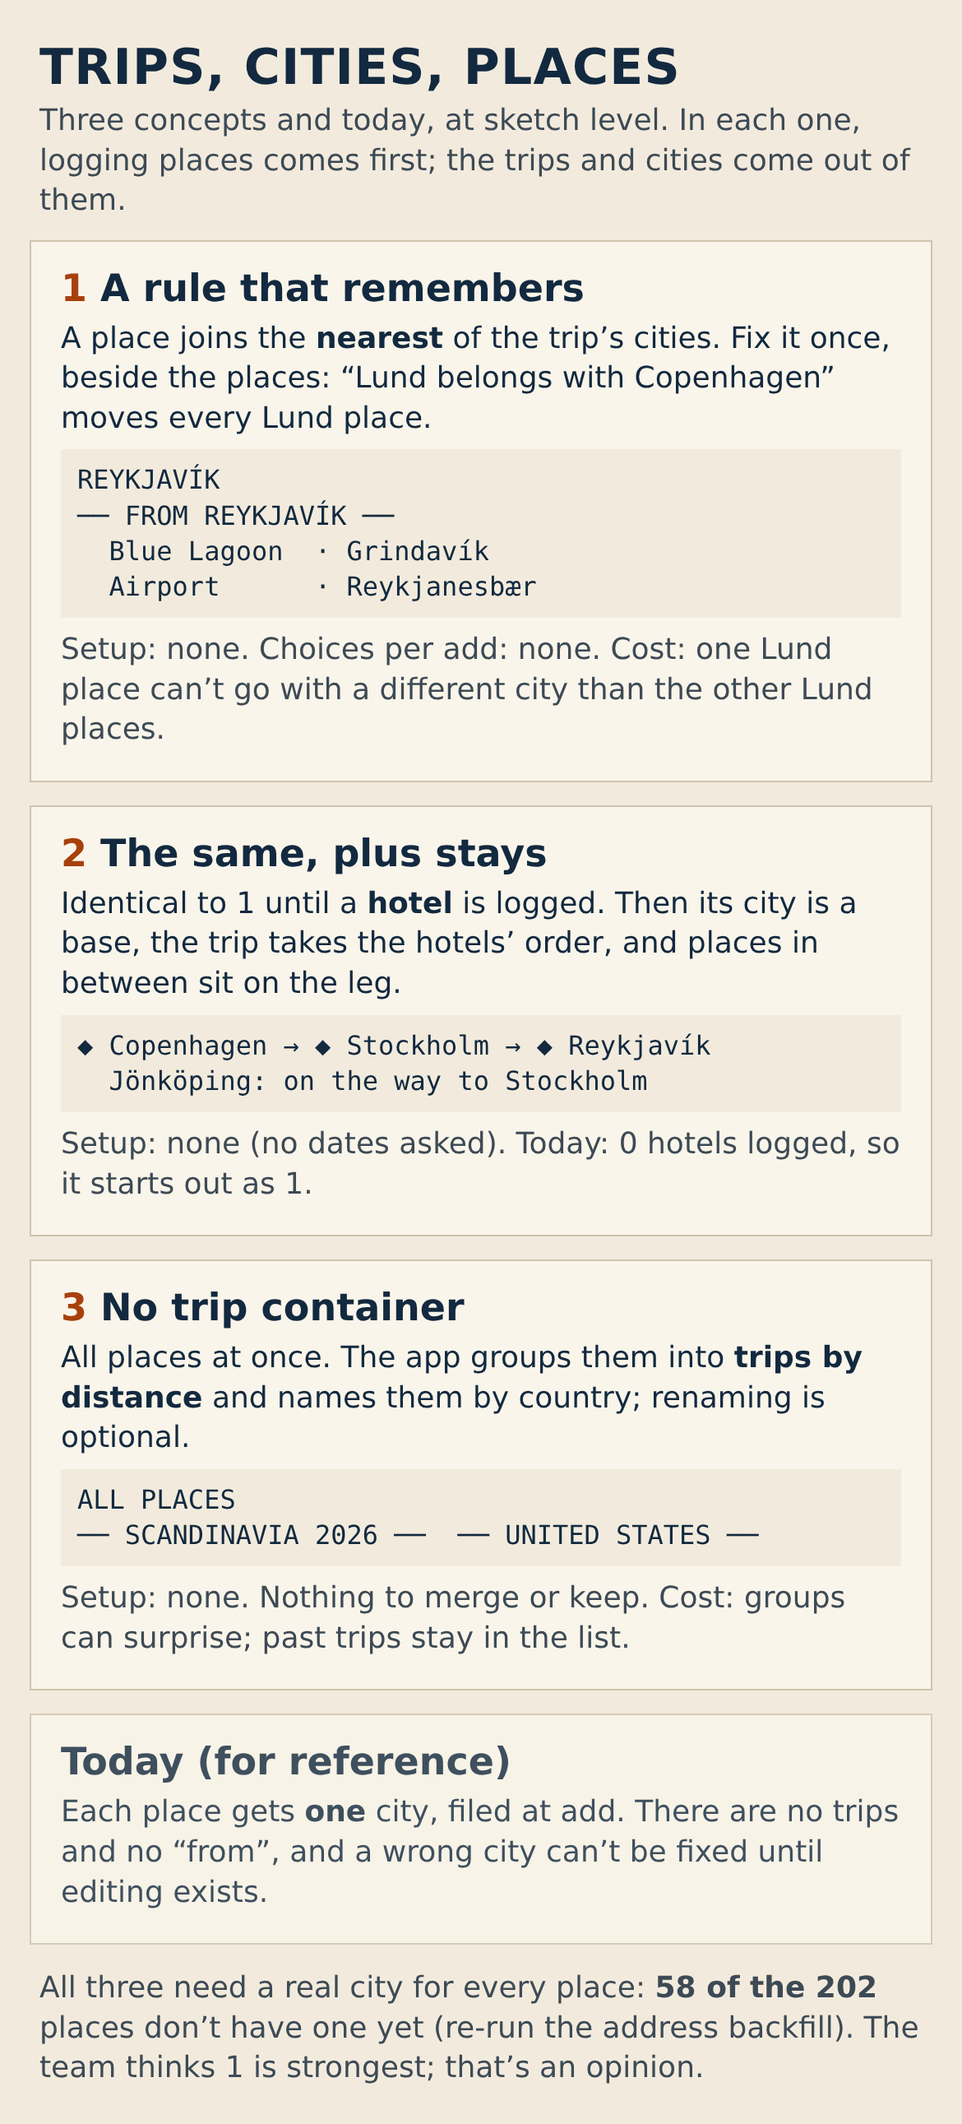
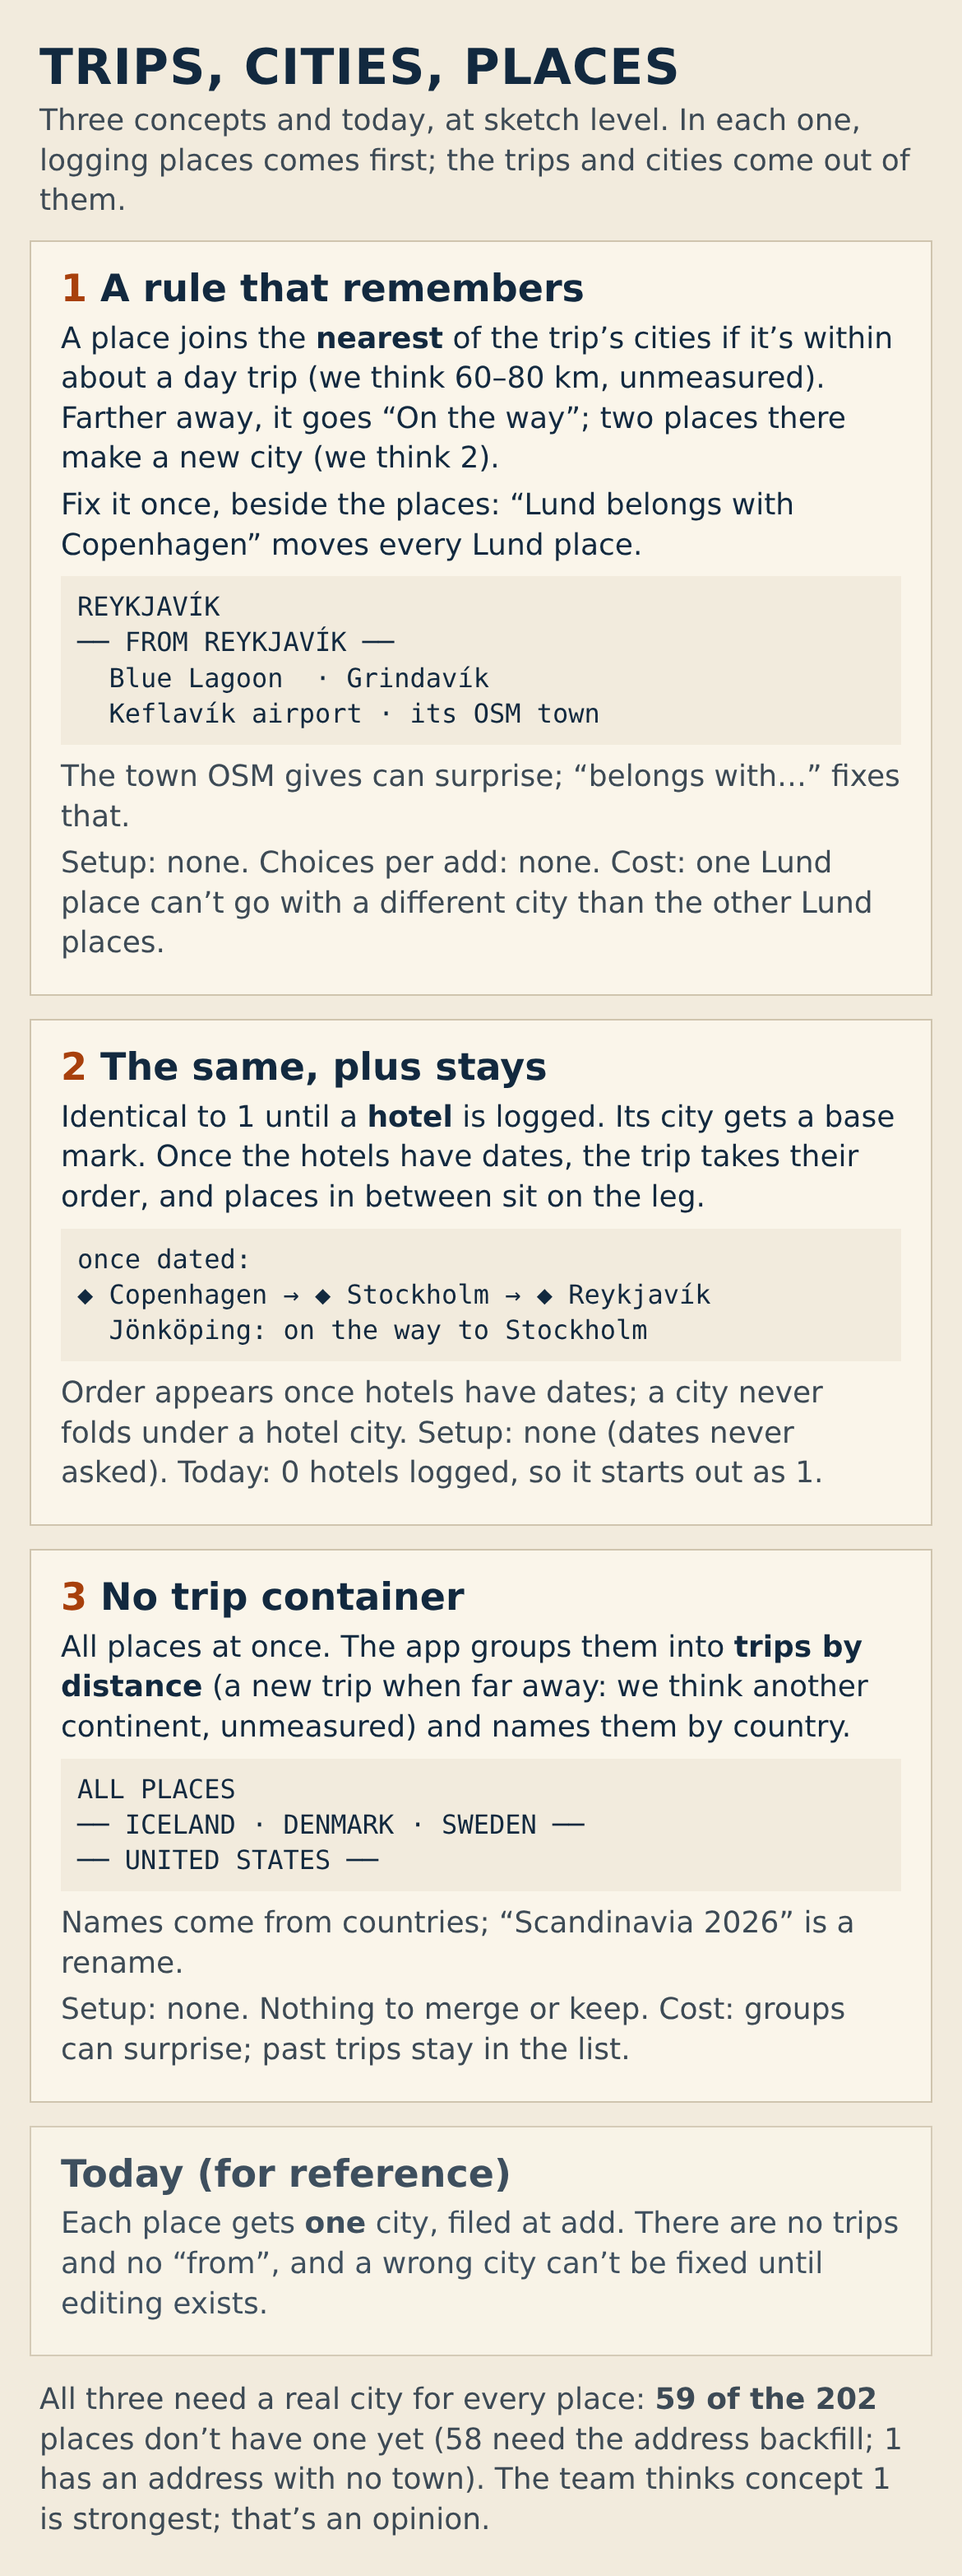
trip-model: Turn 9 overview + concept 2 fixes
Claude-Session: https://claude.ai/code/session_01KJurQQYHfCNMLJBzKaXeDY

Changed region(s): [[0.0308, 0.0, 0.9538, 0.9915]]

diff --git a/design/trip-location-model/concepts/2-rule-plus-stays.md b/design/trip-location-model/concepts/2-rule-plus-stays.md
@@ -4,6 +4,11 @@ Sketch level, model not UI. **Everything in concept 1 holds.** This file
 covers only what the stays layer adds. **(We think)** marks the team's
 taste.
 
+Revised after the director's Turn 8:
+- **a base only adds a mark**; a figure never folds under a base;
+- **the stays' order shows only once every base has a date**; until
+  then, concept 1's order.
+
 ## The model in one picture
 
 ```
@@ -12,31 +17,36 @@ taste.
  Log a hotel (an ordinary place, category Hotel)
    │
    ▼
- its figure becomes a BASE ◆      the order is the order the hotels were added
-                                  (no dates asked; a date on a hotel, if ever given, reorders)
+ its figure gets a BASE MARK ◆        nothing else moves: every figure stays a figure
+   │                                  (Malmö with no hotel is still "MALMÖ", top level)
+   │
+   └── every base's hotel has a date? (dates are never asked; one you give is used)
+          │ no  ──▶ sections keep concept 1's order; in-between places stay "On the way"
+          │ yes ──▶ sections take the stays' order, and in-between places sit on LEGS
 
- TRIP  "Scandinavia 2026"
+ TRIP "Scandinavia 2026", all base hotels dated:
    ◆ Copenhagen ──leg──▶ ◆ Stockholm ──leg──▶ ◆ Reykjavík
-        │                    │                    │
-     From / In            From / In            From / In
-   Malmö (no hotel) = a figure under Copenhagen's base: "Malmö · from Copenhagen"
-   Jönköping = on the Copenhagen ↔ Stockholm LEG (it replaces "On the way")
+     MALMÖ (no hotel): its own section, placed after the base nearest it
+     Jönköping (no figure) ──▶ on the Copenhagen ↔ Stockholm leg
 ```
 
-**Stored:** nothing new. Bases, order and legs are **derived** from
-Hotel places and their order.
+**Stored:** nothing new, beyond a date on a hotel if one is given. Base
+marks, order and legs are **derived** from Hotel places and their dates.
+
+**Legs hold only places with no figure** (what concept 1 calls "On the
+way"). A place that has a figure is never moved onto a leg.
 
 ## What you see
 
 ```
- TRIP LENS (with stays)                       TRIP LENS (no stays yet) = concept 1
+ TRIP LENS, every base dated                  TRIP LENS, no dates (or no hotels) = concept 1
 ┌──────────────────────────────────┐        ┌──────────────────────────────┐
 │ ▾ SCANDINAVIA 2026 (96)          │        │ ▾ SCANDINAVIA 2026 (96)      │
-│ ◆ COPENHAGEN (31)                │        │ ── COPENHAGEN (31) ───────   │
-│     Malmö · from Copenhagen (12) │        │ ── MALMÖ (12) ────────────   │
-│ ┄ on the way to Stockholm (1) ┄  │        │ ── STOCKHOLM (20) ────────   │
-│ ◆ STOCKHOLM (20)                 │        │ ── REYKJAVÍK (23) ────────   │
-│ ◆ REYKJAVÍK (23)                 │        │ ── ON THE WAY (1) ────────   │
+│ ◆ COPENHAGEN (31)    12–15 Sep   │        │ ◆ COPENHAGEN (31)            │
+│ ── MALMÖ (12) ─────────────────  │        │ ── MALMÖ (12) ────────────   │
+│ ┄ on the way to Stockholm (1) ┄  │        │ ◆ STOCKHOLM (20)             │
+│ ◆ STOCKHOLM (20)     15–18 Sep   │        │ ◆ REYKJAVÍK (23)             │
+│ ◆ REYKJAVÍK (23)     18–22 Sep   │        │ ── ON THE WAY (1) ────────   │
 └──────────────────────────────────┘        └──────────────────────────────┘
  the city lens is concept 1's, with the base's hotel(s) heading its list
 ```
@@ -44,9 +54,9 @@ Hotel places and their order.
 ## P: places-first
 
 **PASS, conditionally.**
-- It passes because stays are never asked for, and the layer only reacts
-  to a hotel you chose to log.
-- It would FAIL if it ever prompted "add your hotel" or asked for dates.
+- It passes because stays and dates are never asked for; the layer only
+  reacts to what was logged.
+- It would FAIL if it ever prompted "add a hotel" or asked for dates.
 
 ## Creation moments
 
@@ -54,42 +64,44 @@ C1-C6, C8 and C9 are as in concept 1 (all PASS). What differs:
 
 | # | Moment | What happens | Check |
 |---|---|---|---|
-| C3/C4 | A new real city near a base | As in concept 1. Near a **base** it reads "from Copenhagen" | PASS |
-| C7 | A hotel (the first in Copenhagen) | Copenhagen gets ◆. The trip lens takes the stays' order. Places between two bases sit on that leg. No dates asked | PASS |
-| C7b | A second hotel in another city | That city becomes a base too. Order = the order added (Copenhagen first). A non-base figure (Malmö) folds under its nearest base | PASS |
+| C7 | A hotel (the first, in Copenhagen) | Copenhagen gets ◆. **Nothing else changes:** no reorder, no folding, no legs. No dates asked | PASS |
+| C7b | A second hotel, in another city | That city gets ◆ too. **The order is still concept 1's**, because not every base has a date. Malmö, with no hotel, stays its own top-level city | PASS |
+| C7c | Every base's hotel has a date (given, never asked) | The sections take the stays' order. Places with no figure (On the way) move onto the leg between the two bases they sit between | PASS |
 
-**The change you'd notice, said plainly:** with one hotel logged, Malmö
-stops being a city at the top level of the trip lens and becomes "Malmö ·
-from Copenhagen". That's the layer's point, and also its surprise.
-**(We think)** that's right only if hotels are the trip's frame (owner
-question 3).
+**What's gone, from the first sketch:**
+- One hotel no longer turns Malmö into "Malmö · from Copenhagen".
+  Logging a place never restructures what the owner sees.
+- The order no longer follows the order hotels were added, so the
+  Reykjavík hotel logged first can't make Reykjavík lead a trip that
+  ends there.
 
 ## Test cases
 
 | Case | Result | Check |
 |---|---|---|
-| T1 Øresund (Tårnby) | As in concept 1: from Copenhagen. If Malmö is also a base and is next in order, it's still Copenhagen by memory (the leg applies only to places with no figure) | PASS |
-| T2 Keflavík | As in concept 1: under Reykjavík. With a Reykjavík hotel it's at the edge of the Reykjavík base | PASS |
-| T2 Kastrup for both cities | As in concept 1 (Tårnby in both figures). With bases, it shows at the start and end of the Copenhagen stay | PASS |
-| T3 Jönköping | With Copenhagen and Stockholm bases next to each other in order → **on the Copenhagen ↔ Stockholm leg**. With no stays → On the way (concept 1) | PASS |
+| T1 Øresund (Tårnby) | As in concept 1: from Copenhagen, by the memory. Bases don't change a figure | PASS |
+| T2 Keflavík | As in concept 1: under Reykjavík. With a Reykjavík hotel, it sits under the ◆ Reykjavík section | PASS |
+| T2 Kastrup for both cities | As in concept 1 (Tårnby in both figures, if the owner puts it there) | PASS |
+| T3 Jönköping | **Every base dated**, with Copenhagen and Stockholm next to each other in order → on the Copenhagen ↔ Stockholm leg. **Otherwise** → On the way (concept 1) | PASS |
 
 ## Jobs (only where they differ from concept 1)
 
-- **2:** sections are in trip order.
+- **2:** the sections are in trip order once every base is dated.
 - **7:** the same "belongs with…".
 - **8:** a plan defaults to a day from a base **(we think)**.
-- **9:** legs.
-- **14:** PASS. It's identical to concept 1 without a hotel; base,
-  order and legs appear with one, and no dates are asked.
+- **9:** legs, once dated; On the way before that.
+- **14:** PASS. It's identical to concept 1 without a hotel. A hotel
+  adds the base mark; dates (never asked) add order and legs.
 
 ## Prerequisite
 
-As in concept 1: **58 places without `address_details`**. Also: **0
-Hotel-category places today**, so on day one this concept *is* concept
-1.
+As in concept 1: **59 of 202 places without a real town** (58 with no
+`address_details`, 1 with no town in them). Also: **0 Hotel-category
+places today**, so on day one this concept *is* concept 1.
 
 ## Open (owner questions)
 
 - 3: are hotels and airports places to visit, or the trip's frame?
-- 4: should order or dates be used?
+- 4: should order or dates be used? This concept uses order only once
+  every base has a date.
 - Plus concept 1's questions.

diff --git a/design/trip-location-model/jam.md b/design/trip-location-model/jam.md
@@ -1272,3 +1272,33 @@ Q4 (order/dates) now carries concept 2's gap-2 fix.
 NEXT: product designer (visual focus) — overview changes 1-7 and
 concept 2's two gap fixes in its file. Systems confirms the 59 count.
 Then I check and re-score concept 2.
+
+## Turn 9 -- product designer (visual focus): Turn 8's changes made
+
+- **Overview** (`concepts/overview-3x.png`, re-rendered at 1170x3130 and
+  checked at phone size):
+  1. Card 1 gives the reach: "if it's within about a day trip (we think
+     60-80 km, unmeasured); farther goes 'On the way'".
+  2. Card 1 gives the threshold: "two places there make a new city (we
+     think 2)".
+  3. Card 2's cost line: "Order appears once hotels have dates; a city
+     never folds under a hotel city". Its sketch is labelled "once
+     dated".
+  4. Card 3 uses a generated name ("ICELAND · DENMARK · SWEDEN"), with
+     "'Scandinavia 2026' is a rename".
+  5. The airport row is "Keflavík airport · its OSM town", plus "The town
+     OSM gives can surprise; 'belongs with…' fixes that".
+  6. **59 of 202** (58 need the backfill; 1 has an address with no
+     town).
+  7. The reach and "far away" are labelled "we think, unmeasured" where
+     they appear. The spread isn't named on the overview; it's in
+     concept 1's file, labelled.
+- **Concept 2** (`2-rule-plus-stays.md`), rewritten:
+  - a base adds only a mark, and a figure never folds under a base;
+  - the stays' order and legs appear only once every base's hotel has a
+    date (never asked); until then, concept 1's order and On the way;
+  - legs hold only places with no figure.
+- **The count is 59 in every concept file** (1, 2, 3 and the "today"
+  reference). Concept 3's example names are now generated.
+
+NEXT: design director — check the overview and re-score concept 2.

diff --git a/design/trip-location-model/notes/visual.md b/design/trip-location-model/notes/visual.md
@@ -76,3 +76,11 @@
 - **Next:** the checker / director; the C4 ruling.
 - **Renderer:** the overview HTML is in the scratchpad (ov/ov.html),
   rendered with playwright at 1170 / dsf 1.
+
+## 2026-10-15, turn 9: Turn 8 changes
+- Overview changes 1-7 made, re-rendered 1170x3130, checked.
+- Concept 2: base = mark only; order and legs only once every base is
+  dated; legs = figureless places only.
+- 59 of 202 lack a real town (58 + 1) in every file.
+- Concept 3's examples use generated names.
+- Next: the director checks and re-scores concept 2.
